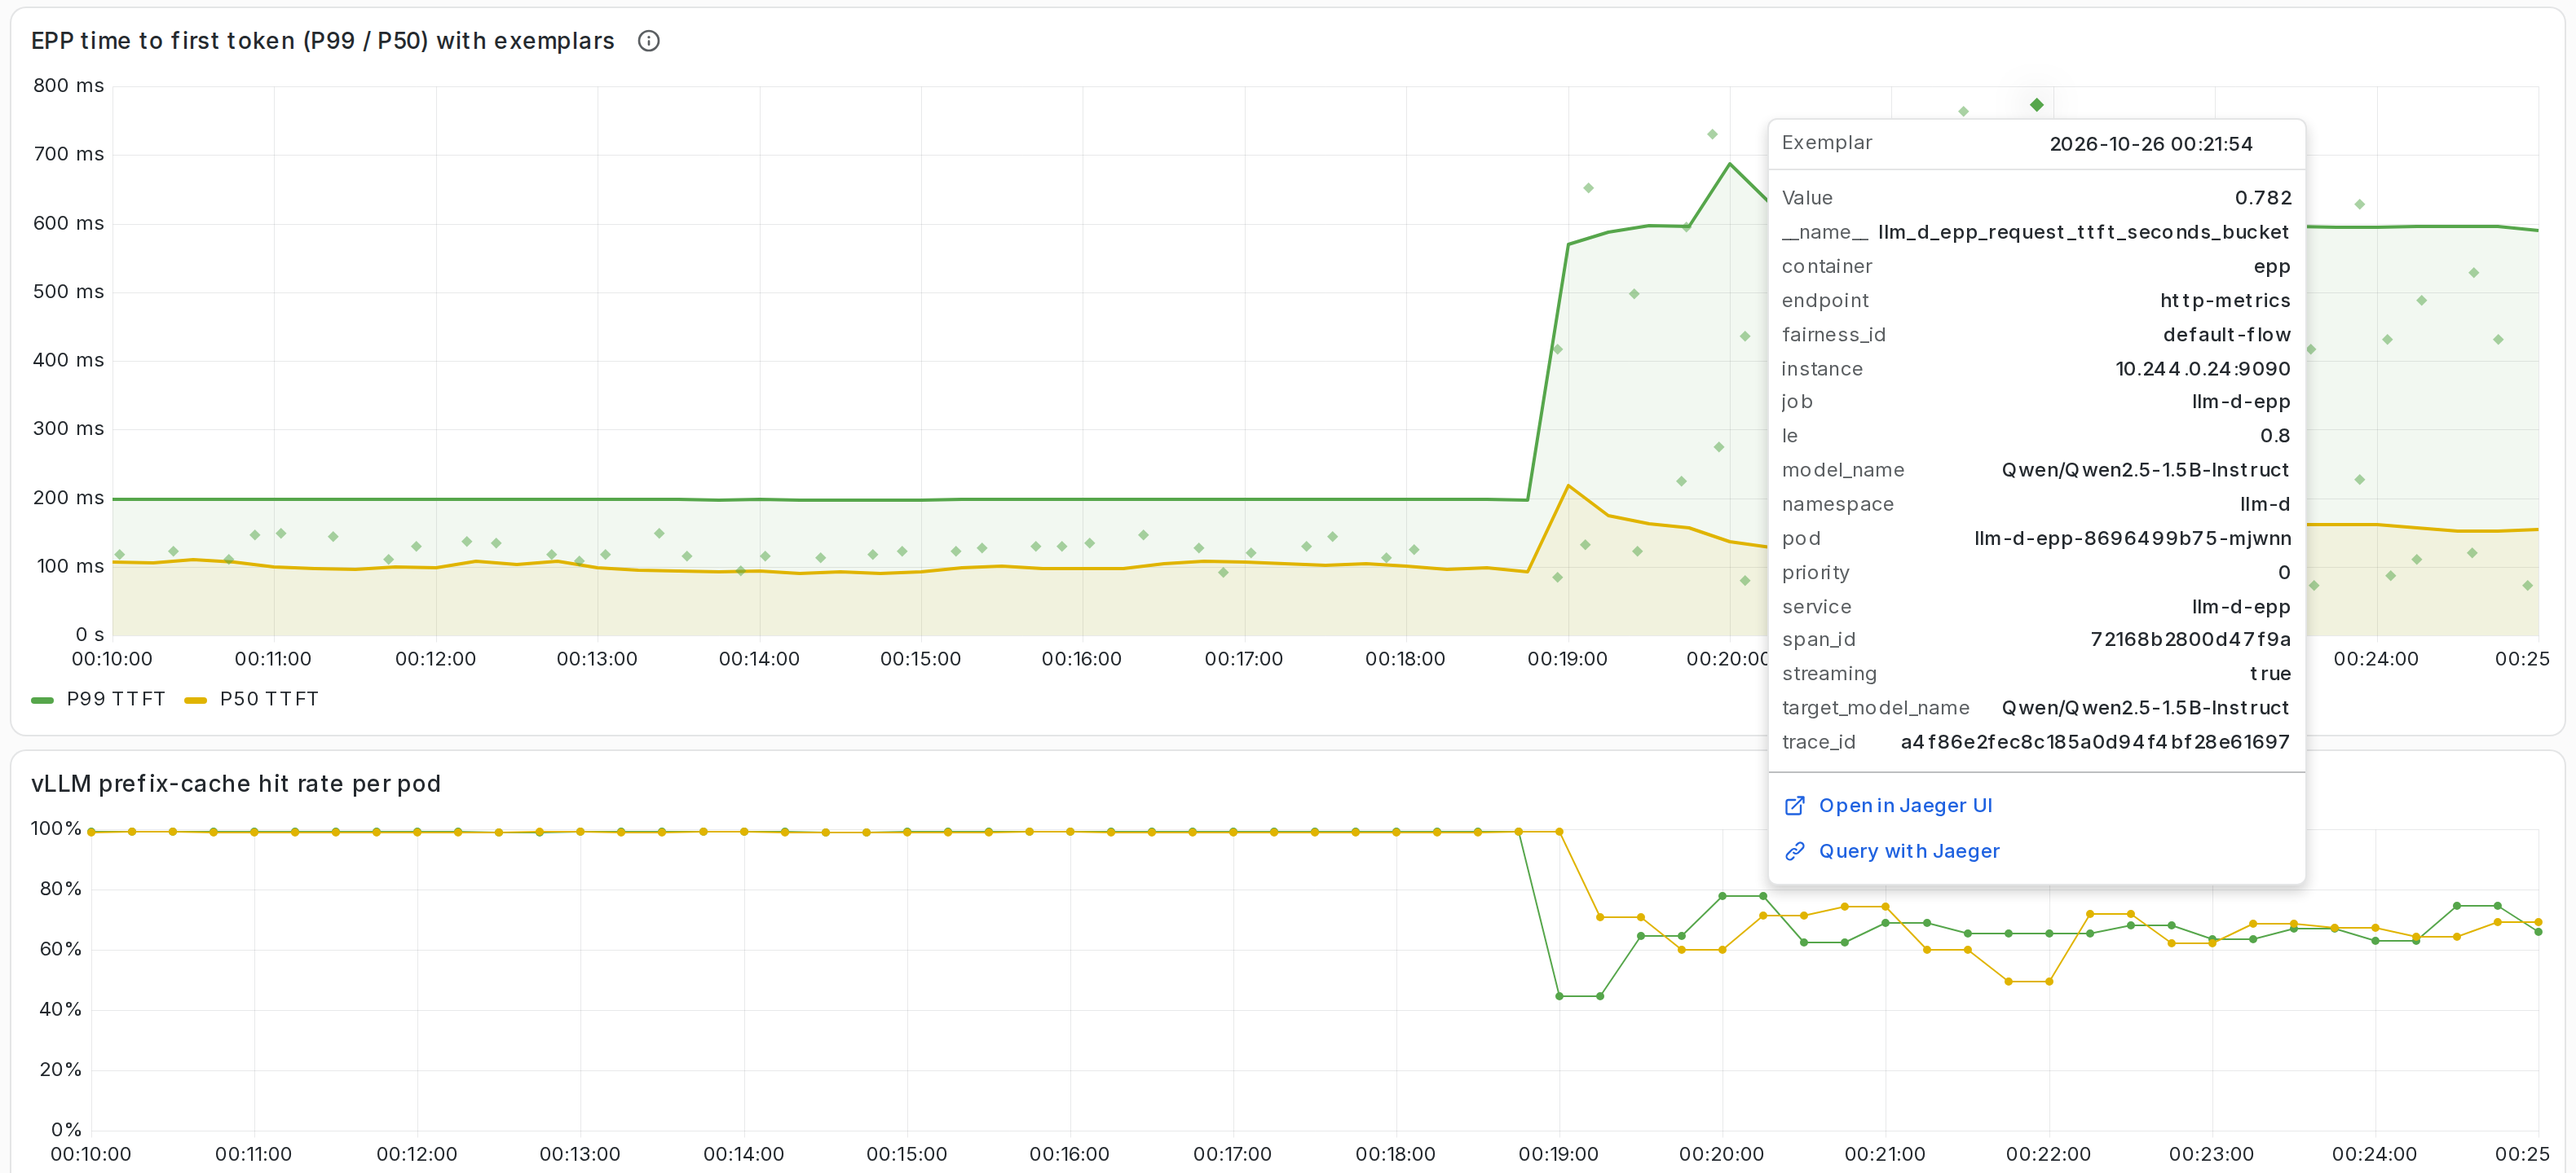
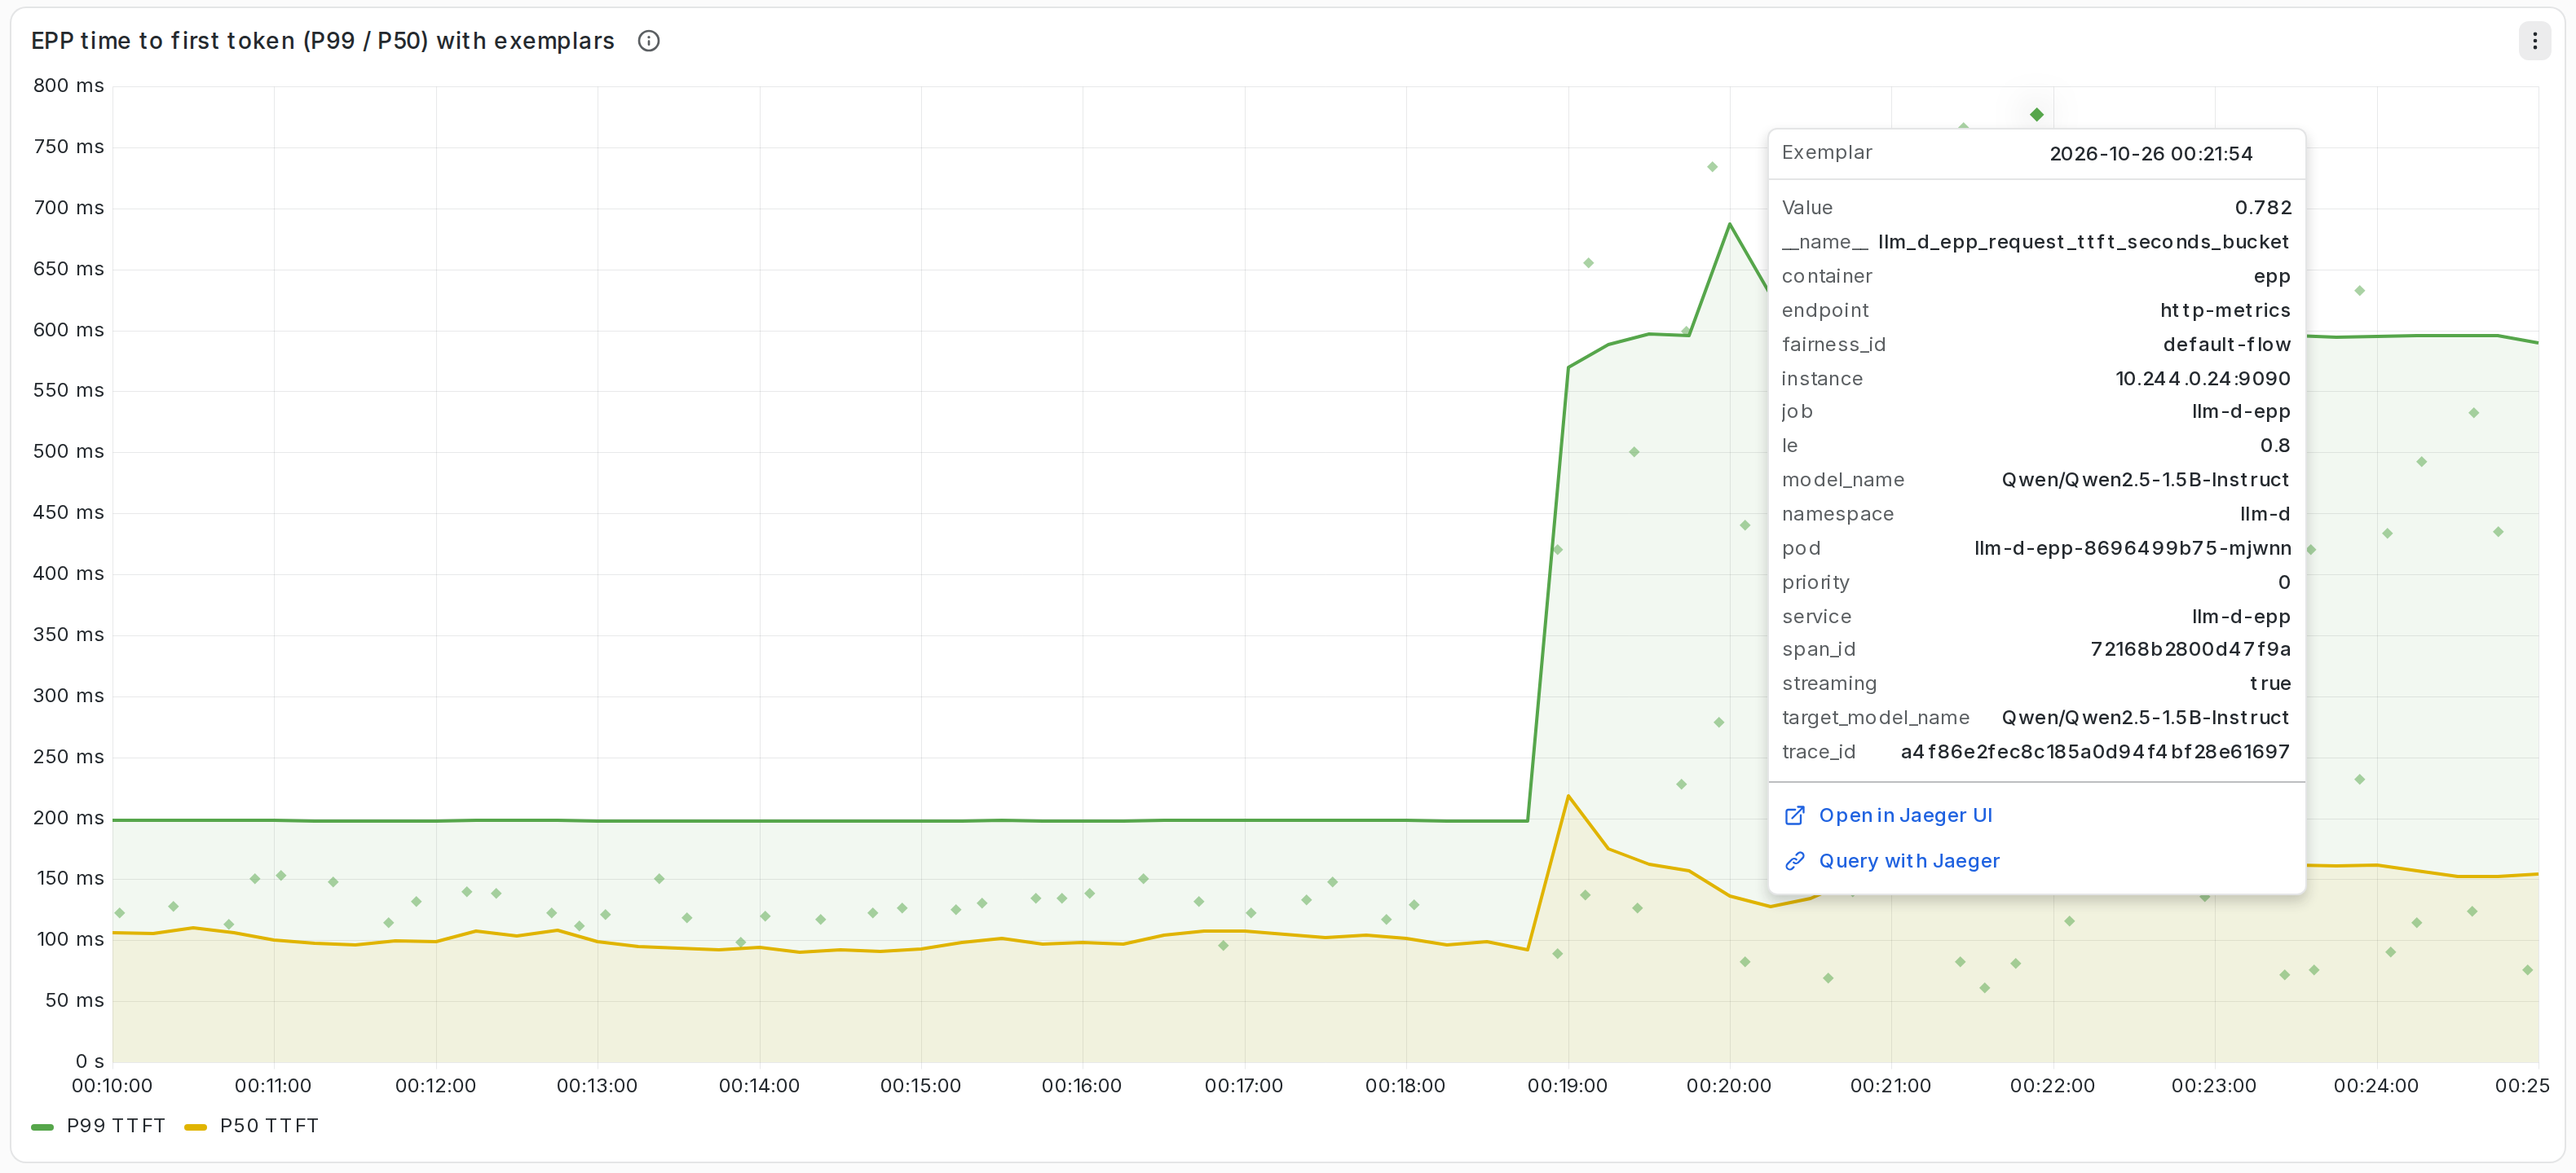
kubecon-obs-demo: single-panel Grafana image for slides 17/19
The capture-ui run rendered the whole dashboard (TTFT + hit rate); keep it as
a backup image and use the single-panel exemplar frame on the slides.

Claude-Session: https://claude.ai/code/session_011oyuY9oSnZXfVny9TLYaNr

diff --git a/llm-d/llm-d-spark-full-demo/kubecon-obs-demo/scripts/hover-top-exemplar.py b/llm-d/llm-d-spark-full-demo/kubecon-obs-demo/scripts/hover-top-exemplar.py
@@ -1,0 +1,24 @@
+#!/usr/bin/env python3
+"""Hover the highest exemplar diamond right of x=XMIN on the TTFT panel and save
+the frame with its tooltip (this is how the slide 17 / 19 image was taken).
+  ~/pwvenv/bin/python scripts/hover-top-exemplar.py <from_ms> <to_ms> <xmin_px> <out.png>
+"""
+import re
+import sys
+
+from playwright.sync_api import sync_playwright
+F,T,XMIN,OUT=sys.argv[1],sys.argv[2],float(sys.argv[3]),sys.argv[4]
+with sync_playwright() as p:
+    b=p.chromium.launch(); pg=b.new_context(viewport={"width":1600,"height":820},device_scale_factor=2,color_scheme="light").new_page()
+    pg.goto("http://localhost:3000/login"); pg.fill("input[name=user]","admin"); pg.fill("input[name=password]","admin"); pg.click("button[type=submit]"); pg.wait_for_timeout(1500)
+    pg.goto(f"http://localhost:3000/d/llm-d-ttft-exemplars/x?orgId=1&viewPanel=panel-1&from={F}&to={T}&theme=light&kiosk"); pg.wait_for_timeout(7000)
+    m=pg.locator('[data-testid="data-testid Exemplar marker"]')
+    pts=[(bb["y"],bb["x"]+bb["width"]/2,bb["y"]+bb["height"]/2) for bb in (m.nth(i).bounding_box() for i in range(m.count())) if bb and bb["x"]>XMIN]
+    pts.sort()
+    _,cx,cy=pts[0]
+    before=set(re.findall(r"[0-9a-f]{32}",pg.locator("body").inner_text()))
+    pg.mouse.move(cx,cy); pg.wait_for_timeout(1500)
+    ids=[i for i in re.findall(r"[0-9a-f]{32}",pg.locator("body").inner_text()) if i not in before]
+    print("TOP",int(cx),int(cy),ids[:2])
+    pg.screenshot(path=OUT)
+    b.close()

diff --git a/llm-d/llm-d-spark-full-demo/kubecon-obs-demo/README.md b/llm-d/llm-d-spark-full-demo/kubecon-obs-demo/README.md
@@ -36,6 +36,7 @@ cluster, `llm-d-obs`, built with the parent's GPU recipe
 | [`screenshots/s17-s19-2-grafana-ttft-exemplar.png`](screenshots/s17-s19-2-grafana-ttft-exemplar.png) | 17, and 19 step 2 | Grafana: P99/P50 of `llm_d_epp_request_ttft_seconds` from 00:10 to 00:25; P99 jumps from ~0.2 s to ~0.6 s at 00:18:45. Hovering the highest exemplar diamond shows its labels, `trace_id a4f86e2f…`, and the *Open in Jaeger UI* link |
 | [`screenshots/s19-3-jaeger-trace-annotated.png`](screenshots/s19-3-jaeger-trace-annotated.png) | 19, step 3 | Jaeger: that trace (gateway → EPP → vLLM, 18 spans). A = `match_block_keys` (`longest_chain 59`, `pods_matched 1`), B = `scorer.prefix-cache-scorer` (`score.max 1`, `weight 0`), C = vLLM `llm_request` (`time_in_model_prefill 0.569`, `time_to_first_token 0.765`, `prompt_tokens 3829`) |
 | [`screenshots/s20-4-logs-by-trace-id.png`](screenshots/s20-4-logs-by-trace-id.png) | 20, step 4 | `kubectl logs deploy/llm-d-epp \| jq 'select(.trace_id=="a4f86e2f…")'`: the three EPP log lines of that request |
+| [`screenshots/extra-grafana-dashboard-ttft-and-hit-rate.png`](screenshots/extra-grafana-dashboard-ttft-and-hit-rate.png) | (backup) | The whole dashboard at the same moment: the TTFT panel above the per-pod vLLM prefix-cache hit rate, which drops from ~100 % to ~65 % at the change |
 | [`screenshots/s20-5-root-cause.png`](screenshots/s20-5-root-cause.png) | 20, step 5 | `helm history` (revision 4 at 00:18:07), the one-line diff between the two EPP configs (`weight: 3.0` → `0.0`), and the same attributes from a trace taken with weight 3.0 next to the slow one |
 
 The same request (`trace_id a4f86e2fec8c185a0d94f4bf28e61697`, 2026-10-26
@@ -194,7 +195,11 @@ first request took 33 s, is out of frame). The script collects the exemplar
 markers (`data-testid="data-testid Exemplar marker"`), hovers them by mouse
 coordinates (an open tooltip covers its neighbours, so it moves away and
 presses Escape in between, and waits ~1.3 s for the tooltip), and saves the
-frame where the tooltip shows the chosen `trace_id`. Before the change the
+frame where the tooltip shows the chosen `trace_id` (that run rendered the
+whole dashboard, kept as the *extra* image above). The slide image is the
+single-panel view from [`scripts/hover-top-exemplar.py`](scripts/hover-top-exemplar.py),
+which hovers the highest diamond after the change; that diamond is the
+`a4f86e2f…` exemplar. Before the change the
 panel's P99 reads a flat ~200 ms: the slowest 1 % fall in the 0.1-0.2 s
 histogram bucket and `histogram_quantile` interpolates to near its top; the
 client measured 0.15-0.16 s.
@@ -261,6 +266,7 @@ scripts/create-cluster.sh                Kind + GPU runtime + image import
 scripts/install-stack.sh                 gateway, router, vLLM, tracing, monitoring, rules
 scripts/session-traffic.py               multi-session long-prefix load
 scripts/capture-ui.py                    Grafana / Prometheus / Jaeger screenshots (headless Chromium)
+scripts/hover-top-exemplar.py            the single-panel Grafana frame with the exemplar tooltip
 scripts/capture-jaeger.py                Jaeger span tree + per-span Tags tables
 scripts/compose-jaeger.py                annotated Jaeger image for the slide
 scripts/compare-traces.py                routing attributes of two traces side by side
